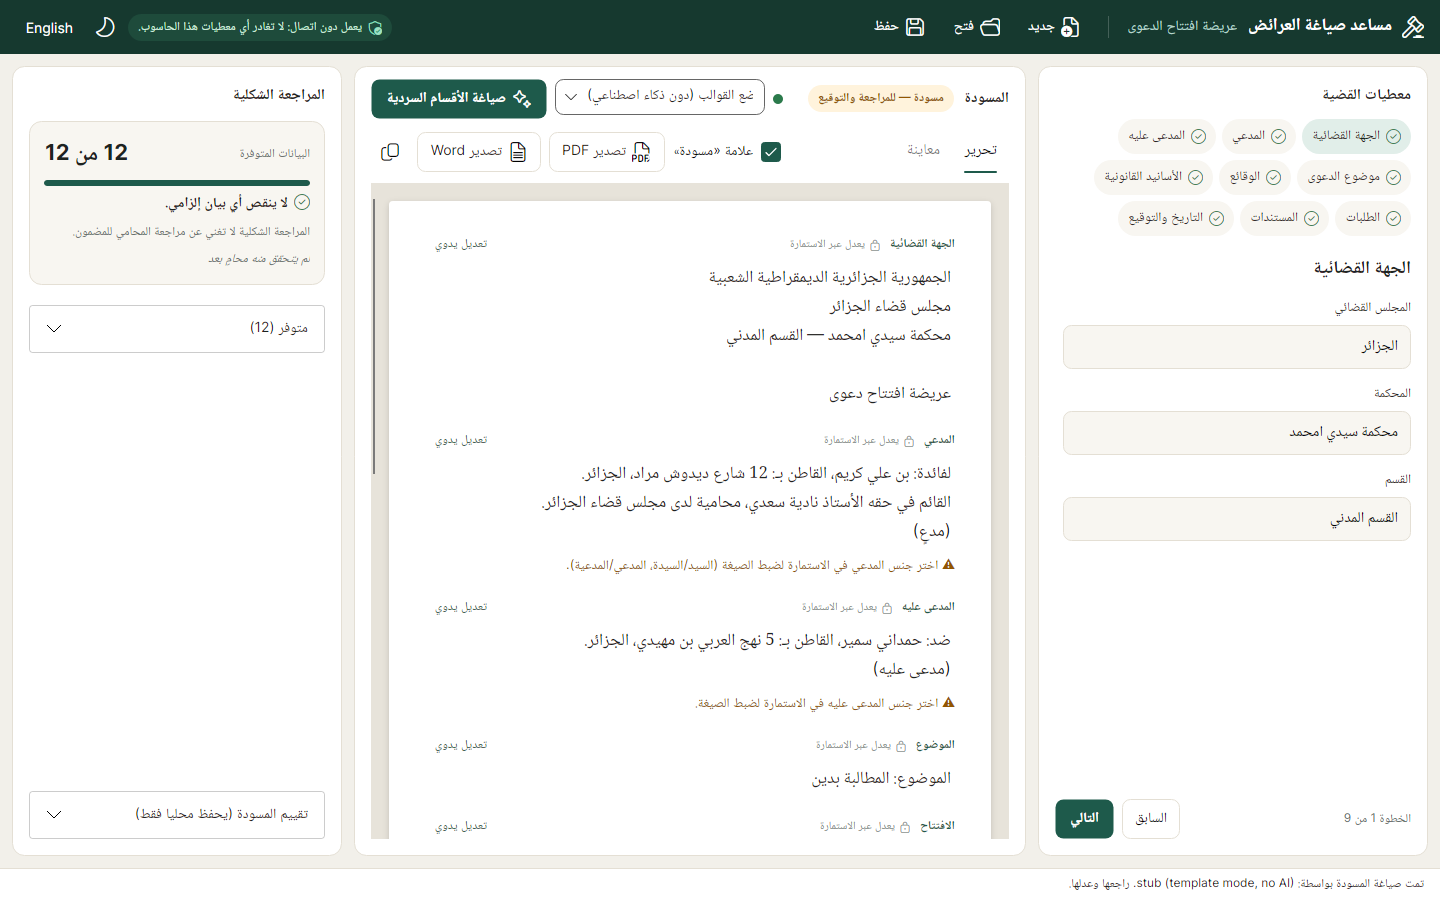
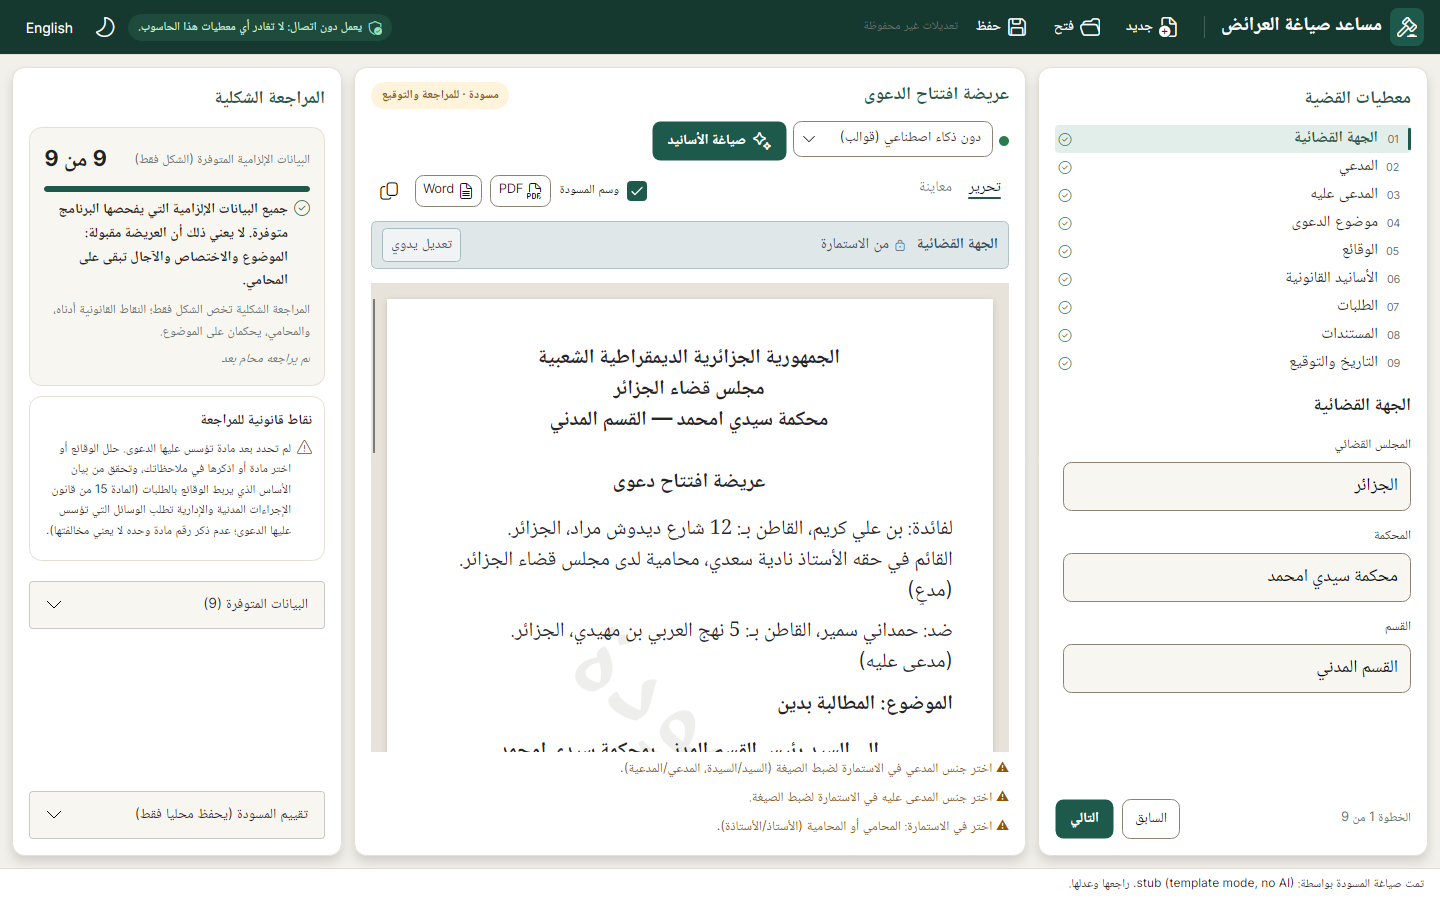
README: team and AI tools, the current interface and walkthrough, fresh screenshots
The walkthrough now follows today's app: the first launch (welcome, setup,
start screen), nine steps, claim confirmation, the review before export and
the current labels. Screenshots are re-rendered by the UI tests, and say so.
A team section names who built which part and the AI tools used.

Claude-Session: https://claude.ai/code/session_016bgDYiGoy5TGUrzkCiEfjN

diff --git a/README.md b/README.md
@@ -6,7 +6,7 @@ The lawyer fills in the case details, the application produces a structured firs
 
 > **Target 1 (this milestone):** one document type, the *requête introductive d'instance* (عريضة افتتاح الدعوى), checked against CPCA (Loi 08-09) arts. 8, 14, 15 and 17.
 >
-> ⚠ **The legal rules are not yet verified by a lawyer.** Every rule is marked `verified: false` in the data and flagged in the UI. See [docs/LEGAL-VERIFICATION.md](docs/LEGAL-VERIFICATION.md) and the Arabic reviewer guide [docs/LEGAL-REVIEW-GUIDE.ar.md](docs/LEGAL-REVIEW-GUIDE.ar.md).
+> ⚠ **The legal rules are not yet formally verified by a practising lawyer.** Every rule is marked `verified: false` in the data and flagged in the UI. See [docs/LEGAL-VERIFICATION.md](docs/LEGAL-VERIFICATION.md) and the Arabic reviewer guide [docs/LEGAL-REVIEW-GUIDE.ar.md](docs/LEGAL-REVIEW-GUIDE.ar.md).
 
 **Supported input: formal Arabic (الفصحى).** The facts, grounds and requests should be written in formal Arabic, the language the requête itself must be in (CPCA art. 8). The quality targets and benchmark scores are measured on formal Arabic only.
 - **Proper names, company names and an occasional French legal term** are kept exactly as written.
@@ -16,6 +16,8 @@ The lawyer fills in the case details, the application produces a structured firs
 
 ![Main window in Arabic](docs/images/main-window-ar.png)
 
+*Version 0.9.0. Screens in this README are rendered by the automated UI tests, with fictitious data; where a model is shown, it is a scripted test engine.*
+
 **Try it without installing anything: https://dz-legal-assistant-ai.onrender.com.** The public web demo runs the same engine, law library and screens in the browser, with four fictitious sample cases. Its AI steps use the same model as the desktop (Gemma 3 4B), hosted, so it is not for real client data. See [docs/WEB-DEMO.md](docs/WEB-DEMO.md) (local run: `dotnet run --project src/DzLegal.Web`). The first visit after a quiet spell takes about a minute while the free server wakes up.
 
 **Law texts:** 1,361 articles are loaded:
@@ -24,6 +26,16 @@ The lawyer fills in the case details, the application produces a structured firs
 - **17 labour-law articles**, transcribed from the official page images.
 
 None of these checks is a lawyer's review ([docs/LAW-LIBRARY.md](docs/LAW-LIBRARY.md)). A quotation is checked only against a loaded text. The complete Civil Code follows when the corpus delivers it.
+
+## Team and how it was built
+
+| Who | Role | What they did |
+|---|---|---|
+| **Hicham Benkaihoul** | Product owner and developer | Defined the product and its legal pipeline, directed and reviewed the AI coding agents that wrote most of the code, ran the benchmarks on a CPU-only laptop, and tested the app. |
+| **Djihane Ben Djeddou** | UI/UX designer | Designed and built the desktop app's welcome screen, lawyer profile and settings, and start screen (merged on 30 October 2026), with an AI coding agent. |
+| **Khouloud Otmane Cherif** | Legal reviewer | Reviewed legal points of the drafting and answered the team's questions on Algerian civil procedure and claim types. |
+
+**AI tools used to build it.** Most of the code, tests and documentation were written by AI coding agents, directed and reviewed by the team: Claude Code (most of the app), OpenAI Codex (the law corpus, part of the workbench, the hidden test cases) and OpenCode (the onboarding screens). The welcome image was generated with ChatGPT. Inside the app, the only AI is the local model (Gemma 3 4B through Ollama), and the lawyer confirms everything it proposes.
 
 ## Principles
 
@@ -75,7 +87,7 @@ Each narrative section (grounds, requests) has a **✦ Assistant** button. It op
 - It is not a chatbot: a legal question gets a fixed reply («المساعد يعدل صياغة هذا القسم فقط»), never an answer.
 - Accepting keeps the old text in the section's history, so **Undo** restores it.
 
-**Regeneration never destroys edits.** «صياغة الأقسام السردية» only fills sections that are empty or unchanged since the model wrote them. A section the lawyer edited keeps its text; its own **↻ Redraft** button asks for confirmation first, and the old text can be undone.
+**Regeneration never destroys edits.** «صياغة الأسانيد» only fills sections that are empty or unchanged since the model wrote them. A section the lawyer edited keeps its text; its own **↻ Redraft** button asks for confirmation first, and the old text can be undone.
 
 **Model status** is shown by a dot next to the provider. The app asks the local Ollama (`/api/tags`, loopback only) at startup and every 30 s, and says plainly when Ollama is not running or the model is not installed (`ollama pull gemma3:4b`).
 
@@ -105,14 +117,14 @@ dotnet run --project src/DzLegal.Harness -- grounds --models gemma3:4b   # groun
 dotnet run --project src/DzLegal.App           # the desktop app
 ```
 
-The app starts in Arabic and uses the local model by default. **With no model installed,** choose **"وضع القوالب (دون ذكاء اصطناعي)" / "Template mode (no AI)"** in the toolbar. The draft is then built from the templates plus your own notes, and everything else works the same.
+The app starts in Arabic and uses the local model by default. **With no model installed,** choose **«دون ذكاء اصطناعي (قوالب)» / "Without AI (fill-in templates)"** in the draft panel. The draft is then built from the templates plus your own notes, and everything else works the same.
 
 ### Using the local model (optional, recommended)
 
 1. Install [Ollama](https://ollama.com). It runs as a local process on `127.0.0.1:11434`.
 2. `ollama pull gemma3:4b` (about 3.3 GB, one-time download). After that, no network is needed. With 16 GB RAM or a GPU, `qwen2.5:7b-instruct` writes better Arabic.
 3. Optional, on Windows, recommended on 8 GB RAM: `powershell -ExecutionPolicy Bypass -File tools\model\New-TextOnlyModel.ps1`. It creates `dz-gemma3-4b-text` from the installed `gemma3:4b` (same language weights, nothing downloaded) without the image part the app never uses: about 0.8 GB less memory, identical answers. The app uses it automatically when it is installed.
-4. Start the app and keep the default engine, "النموذج المحلي" / "Local model".
+4. Start the app and keep the default engine, "Local model (gemma3:4b)".
 
 Recommended hardware: 16 GB RAM for 7B models (CPU-only works, at about a minute or more per section), or a GPU with 8 GB or more of VRAM. **On 8 GB RAM without a GPU, use `gemma3:4b`.** It was the best of the three models benchmarked on such a machine (about 4 minutes of drafting per requête on an Intel i5-1335U, plus 2–3 minutes for the grounds analysis). `qwen2.5:3b-instruct` is weaker and only worth using on machines too small for gemma. `qwen3:4b` is **not supported** there: it writes its English reasoning into the document and takes over 10 minutes per requête. To change a setting, **don't edit `appsettings.json`**. Create `appsettings.local.json` next to it (in the repo: `src/DzLegal.App/appsettings.local.json`; git ignores it) containing only the keys you want to change. For example:
 
@@ -158,22 +170,22 @@ Never add `-p:OnlineTesting=true` here. That flag builds the temporary online te
 
 ## Demo walkthrough (for reviewers)
 
-1. `dotnet run --project src/DzLegal.App`. Click **English** (top bar) if you don't read Arabic. The UI switches to left-to-right, while the document stays Arabic and right-to-left. The desktop starts in the charcoal/gold theme; the moon icon switches themes. See the [approved workbench implementation and validation](docs/UI-WORKBENCH-RELEASE.md).
-2. Next to **Draft narrative sections**, choose **Template mode (no AI)** unless Ollama is installed.
-3. **Left panel, Case details:** the form is split into 7 steps, shown as chips. Each chip turns ✓ (done), red (a mandatory element is missing) or amber (a recommendation). A missing field gets a red border and the article it comes from, for example «مطلوب — CPCA art. 15-2». Use **Next** and **Back**, or click a chip.
-4. **Right panel, Formal check:** the score («10 من 12») and only the missing elements, expanded. Click one to jump to the step that fixes it. Present elements are folded away.
-5. **Centre, Draft:**
-   - **Edit** shows the sections on paper. Generated sections follow the form (🔒). Use **Edit by hand** to take one over, and **Restore from form** to give it back.
-   - **Facts → Legal grounds → Requests:** in the Legal grounds step, **Analyse the facts** proposes articles from the official texts with the model's reasons. Tick the ones you rely on. The Requests step then offers the usual requests.
-   - **Draft narrative sections** writes the grounds and requests, streaming the text as it comes. Sections you edited are kept.
-   - **✦ Assistant** on a narrative section proposes an edit you accept or reject (needs Ollama; template mode only echoes the text). **Undo** and **↻ Redraft** are per section.
-   - **Preview** shows the exact A4 pages. **Export PDF** and **Export Word** save the document, with or without the «مسودة» watermark.
-6. Work is autosaved every 30 s and on close. The next start offers to restore it.
-7. Keyboard shortcuts: Ctrl+N new, Ctrl+O open, Ctrl+S save, Ctrl+G draft, Ctrl+P export PDF.
+1. `dotnet run --project src/DzLegal.App`. **On first launch:** a welcome screen, then a three-step setup (the lawyer, the office, preferences). The profile fills the signature block of every new petition; **Later** skips it. Then the **start screen**: new petition, open a case, resume the last session. Everything is stored on the computer only (`%LOCALAPPDATA%\DzLegalAssistant`).
+2. Click **English** (top bar) if you don't read Arabic. The interface switches to left-to-right, while the document stays Arabic and right-to-left. The moon icon switches between the light and dark themes.
+3. In the draft panel, choose the engine **Without AI (fill-in templates)** unless Ollama is installed; with it, keep **Local model (gemma3:4b)**.
+4. **Left, Case details:** nine steps (court, plaintiff, defendant, claim, facts, legal grounds, requests, supporting documents, date and signature), each ✓ when complete. A missing mandatory field gets a red border and the article it comes from, for example «مطلوب — CPCA art. 15-2».
+5. **Legal grounds step:** **Analyse the facts** proposes a claim type and articles, each with the model's reason and the official text. Nothing is ticked until you confirm the claim type (**Yes, this is the claim type**); the **Requests** and **Supporting documents** steps then offer the usual lines for it, one click each.
+6. **Centre, the petition:** **Draft legal grounds** (Ctrl+G) writes the grounds from the ticked articles; the code writes each rule and its article, the AI only how the facts meet it. Every AI-written section carries «راجعت هذا القسم وأتحمل مضمونه», and **PDF**, **Word** and copy stay blocked, with the reasons listed, until each one is ticked. **Edit by hand** takes a section over and **Restore from form** gives it back; **Preview** shows the exact A4 pages, with or without the «مسودة» draft mark.
+7. **Right, Formal check:** «9 من 9» counts the mandatory elements of form only, then the legal points to check. Click a missing element to jump to the step that fixes it.
+8. Work is saved automatically and on close; the next start offers to restore it. Keyboard: Ctrl+N new, Ctrl+O open, Ctrl+S save, Ctrl+G draft, Ctrl+P export PDF.
 
-![English UI](docs/images/main-window-en.png)
+![Setup, step 1](docs/images/onboarding/setup-1-en-light-1366x768.png)
 
-![Dark mode](docs/images/main-window-dark.png)
+![English interface](docs/images/main-window-en.png)
+
+![Export blocked until the AI-written section is reviewed](docs/images/workbench-export-blocked.png)
+
+![Dark theme](docs/images/main-window-dark.png)
 
 ## Repository layout
 
@@ -184,11 +196,14 @@ src/
   DzLegal.Drafting/               template rendering, grounded prompts, IModelProvider
   DzLegal.ModelProviders.Stub/    template mode (no model)
   DzLegal.ModelProviders.Ollama/  local model over loopback only
-  DzLegal.Storage/                local JSON drafts + evaluation records
+  DzLegal.ModelProviders.Hosted/  hosted models, for the web demo and the online testing build only
+  DzLegal.Storage/                local JSON drafts, profile, preferences, recent cases, evaluation records
   DzLegal.Documents/              print layout → PDF (QuestPDF) and Word (Open XML), preview images
   DzLegal.Law/                    offline law library (official texts), full-text index, claim catalog, official-text parser
   DzLegal.Harness/                Form Engine accuracy report, drafting bench, `law import` maintainer tool
-  DzLegal.App/                    Avalonia desktop shell (Arabic/English)
+  DzLegal.Presentation/           screen logic shared by the desktop and the web demo (view models, Arabic/English strings)
+  DzLegal.App/                    Avalonia desktop app: welcome, setup, start screen, workbench
+  DzLegal.Web/                    Blazor Server web demo (the public live demo)
 data/law/                         official texts to import (sources.json), imported codes, import reports — see docs/LAW-LIBRARY.md
 data/document-types/requete-introductive/
   definition.json                 fields, sections, required elements (+ articles)
@@ -197,7 +212,8 @@ data/document-types/requete-introductive/
 tests/
   corpus/requete-introductive/    documents with known-correct outcomes
   DzLegal.*.Tests/                unit, integration and headless UI tests
-docs/                             architecture, offline guarantees, rule updates, legal verification
+tools/law/                        import and check the official law texts
+docs/                             architecture, offline guarantees, rule updates, legal verification, briefs
 ```
 
 ## Further documentation
